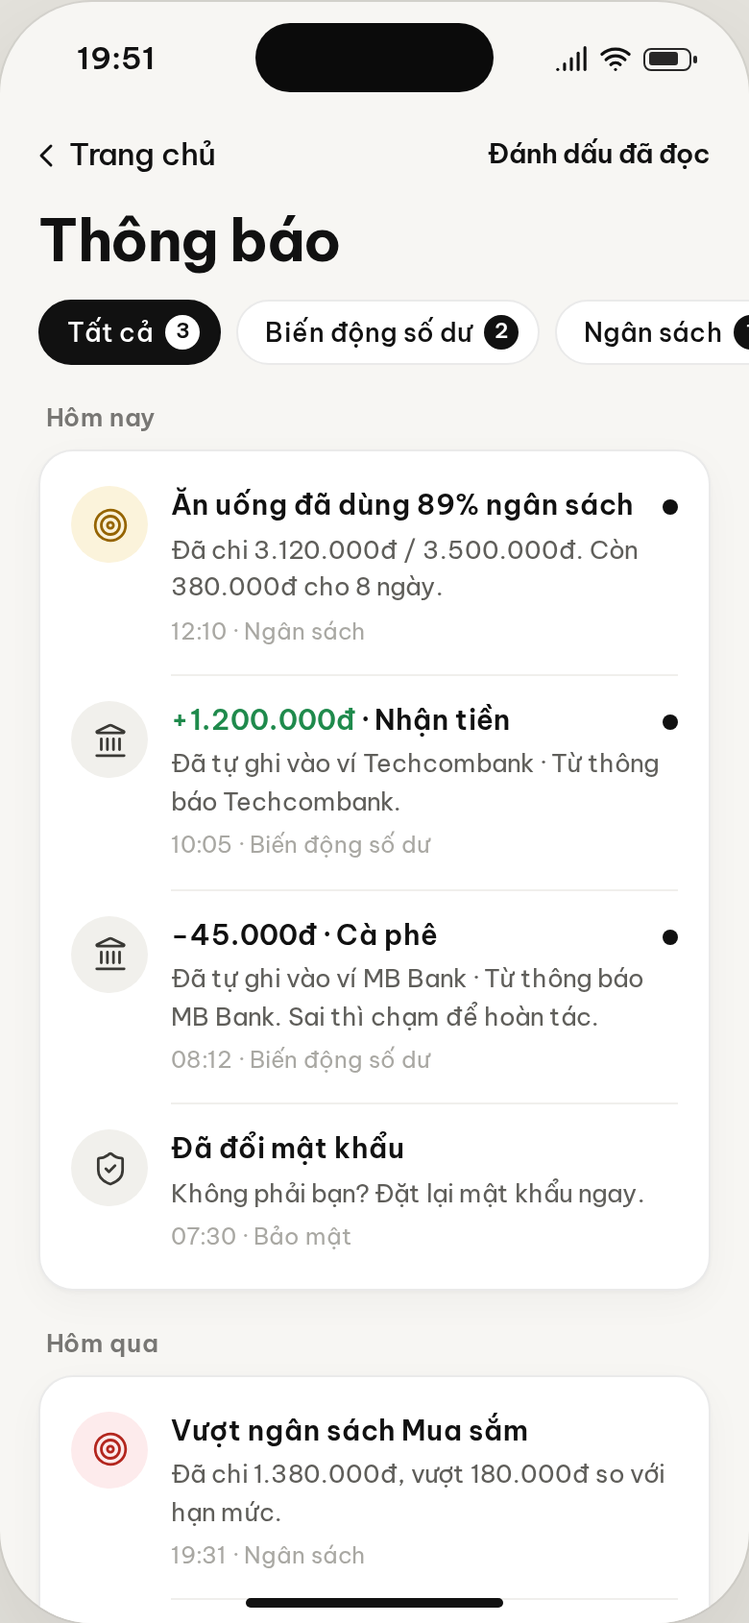
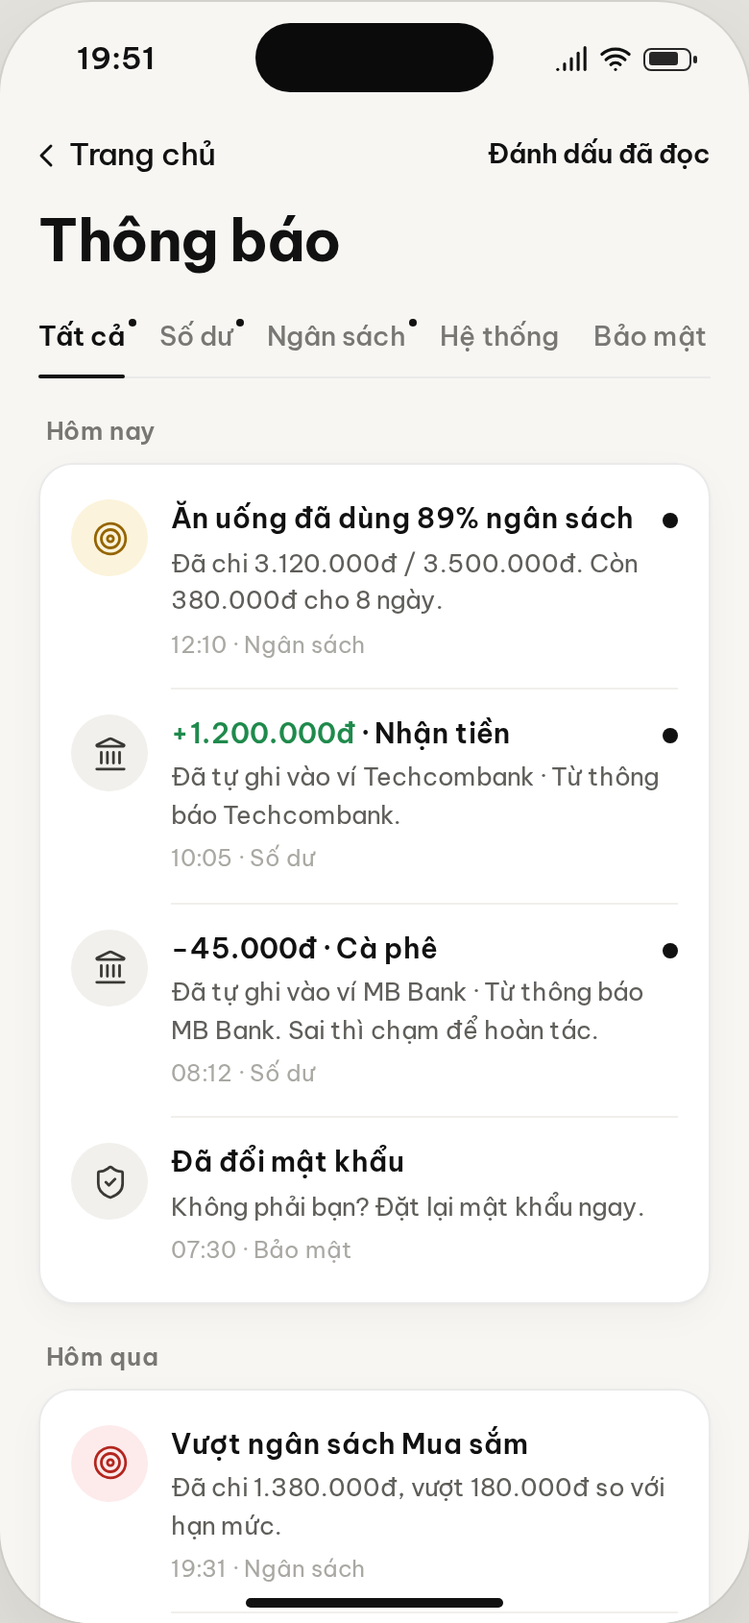
feat(notifications): menu 4 nhóm + Tất cả vừa một hàng — gộp Nhắc nhở vào Hệ thống; mockup tab gọn

diff --git a/design/mockup/index.html b/design/mockup/index.html
@@ -2071,7 +2071,7 @@
   <!-- ===================== M. THÔNG BÁO THEO NHÓM & TỰ GHI (chờ duyệt) ===================== -->
   <section class="section" id="thong-bao-nhom">
     <div class="section-label"><b>M</b> Thông báo theo nhóm &amp; tự ghi · chờ duyệt</div>
-    <p class="body-m" style="color:#55544f;max-width:980px;margin:-8px 0 24px;line-height:1.6">Thông báo có <b>5 nhóm</b>: Biến động số dư (khoản app tự ghi từ thông báo ngân hàng), Ngân sách (80% / vượt hạn mức), Hệ thống (từ đội ngũ TrackerX), Bảo mật (mật khẩu, số điện thoại), Nhắc nhở (định kỳ tạm dừng…). Màn Thông báo thêm dải chip lọc có số chưa đọc theo nhóm. <b>Tự động ghi vào sổ</b> là công tắc mới trong Ghi từ thông báo ngân hàng (Android, bản cài đầy đủ), <b>mặc định tắt</b>, bật phải qua sheet đồng ý riêng. Chỉ ghi ngay khi app biết cả ví và danh mục; khoản trùng từ app ngân hàng và SMS trong 3 phút chỉ ghi 1 lần; ghi khi app đang chạy hoặc lần mở tiếp theo. Mỗi khoản tự ghi có thông báo Biến động số dư kèm <b>Hoàn tác</b>.</p>
+    <p class="body-m" style="color:#55544f;max-width:980px;margin:-8px 0 24px;line-height:1.6">Thông báo có <b>4 nhóm</b>: Số dư (khoản app tự ghi từ thông báo ngân hàng), Ngân sách (80% / vượt hạn mức), Hệ thống (từ đội ngũ TrackerX, kể cả định kỳ tạm dừng), Bảo mật (mật khẩu, số điện thoại). Màn Thông báo thêm menu 5 tab gọn, vừa khít chiều ngang, chấm nhỏ báo chưa đọc. <b>Tự động ghi vào sổ</b> là công tắc mới trong Ghi từ thông báo ngân hàng (Android, bản cài đầy đủ), <b>mặc định tắt</b>, bật phải qua sheet đồng ý riêng. Chỉ ghi ngay khi app biết cả ví và danh mục; khoản trùng từ app ngân hàng và SMS trong 3 phút chỉ ghi 1 lần; ghi khi app đang chạy hoặc lần mở tiếp theo. Mỗi khoản tự ghi có thông báo Biến động số dư kèm <b>Hoàn tác</b>.</p>
     <div class="row-phones">
 
       <!-- 60-01 Thông báo theo nhóm -->
@@ -2080,30 +2080,23 @@
           <div class="appbar"><span class="back left"><i data-lucide="chevron-left"></i>Trang chủ</span><span></span><span class="right"><span class="link tb-mark">Đánh dấu đã đọc</span></span></div>
           <div class="pad">
             <h1 class="headline">Thông báo</h1>
-            <div class="chips tb-chips mt-3">
-              <span class="chip on">Tất cả<span class="cnt num">3</span></span>
-              <span class="chip">Biến động số dư<span class="cnt num">2</span></span>
-              <span class="chip">Ngân sách<span class="cnt num">1</span></span>
-              <span class="chip">Hệ thống</span>
-              <span class="chip">Bảo mật</span>
-              <span class="chip">Nhắc nhở</span>
-            </div>
+            <div class="tb-tabs mt-3"><span class="tb-tab on">Tất cả<i class="tb-dot"></i></span><span class="tb-tab">Số dư<i class="tb-dot"></i></span><span class="tb-tab">Ngân sách<i class="tb-dot"></i></span><span class="tb-tab">Hệ thống</span><span class="tb-tab">Bảo mật</span></div>
             <div class="group-h"><span>Hôm nay</span></div>
             <div class="card flush list">
               <div class="nrow"><span class="bubble warn"><i data-lucide="target"></i></span><div class="grow"><div class="between"><span class="t">Ăn uống đã dùng 89% ngân sách</span><span class="unread"></span></div><div class="s">Đã chi 3.120.000đ / 3.500.000đ. Còn 380.000đ cho 8 ngày.</div><div class="time">12:10 · Ngân sách</div></div></div>
-              <div class="nrow"><span class="bubble"><i data-lucide="landmark"></i></span><div class="grow"><div class="between"><span class="t"><span class="num income">+1.200.000đ</span> · Nhận tiền</span><span class="unread"></span></div><div class="s">Đã tự ghi vào ví Techcombank · Từ thông báo Techcombank.</div><div class="time">10:05 · Biến động số dư</div></div></div>
-              <div class="nrow"><span class="bubble"><i data-lucide="landmark"></i></span><div class="grow"><div class="between"><span class="t"><span class="num">−45.000đ</span> · Cà phê</span><span class="unread"></span></div><div class="s">Đã tự ghi vào ví MB Bank · Từ thông báo MB Bank. Sai thì chạm để hoàn tác.</div><div class="time">08:12 · Biến động số dư</div></div></div>
+              <div class="nrow"><span class="bubble"><i data-lucide="landmark"></i></span><div class="grow"><div class="between"><span class="t"><span class="num income">+1.200.000đ</span> · Nhận tiền</span><span class="unread"></span></div><div class="s">Đã tự ghi vào ví Techcombank · Từ thông báo Techcombank.</div><div class="time">10:05 · Số dư</div></div></div>
+              <div class="nrow"><span class="bubble"><i data-lucide="landmark"></i></span><div class="grow"><div class="between"><span class="t"><span class="num">−45.000đ</span> · Cà phê</span><span class="unread"></span></div><div class="s">Đã tự ghi vào ví MB Bank · Từ thông báo MB Bank. Sai thì chạm để hoàn tác.</div><div class="time">08:12 · Số dư</div></div></div>
               <div class="nrow"><span class="bubble"><i data-lucide="shield-check"></i></span><div class="grow"><div class="t">Đã đổi mật khẩu</div><div class="s">Không phải bạn? Đặt lại mật khẩu ngay.</div><div class="time">07:30 · Bảo mật</div></div></div>
             </div>
             <div class="group-h"><span>Hôm qua</span></div>
             <div class="card flush list">
               <div class="nrow"><span class="bubble danger"><i data-lucide="target"></i></span><div class="grow"><div class="t">Vượt ngân sách Mua sắm</div><div class="s">Đã chi 1.380.000đ, vượt 180.000đ so với hạn mức.</div><div class="time">19:31 · Ngân sách</div></div></div>
               <div class="nrow"><span class="bubble brand"><svg viewBox="0 0 120 120" aria-label="TrackerX"><rect width="120" height="120" rx="26.4" fill="#111111"/><rect x="23" y="23" width="22" height="22" rx="5" fill="#FFFFFF"/><rect x="49" y="23" width="22" height="22" rx="5" fill="#FFFFFF"/><rect x="75" y="23" width="22" height="22" rx="5" fill="#FFFFFF"/><rect x="49" y="49" width="22" height="22" rx="5" fill="#FFFFFF"/><rect x="49" y="75" width="22" height="22" rx="5" fill="#FFFFFF"/><rect x="23" y="75" width="22" height="22" rx="5" fill="#5E5D59"/><rect x="75" y="75" width="22" height="22" rx="5" fill="#5E5D59"/></svg></span><div class="grow"><div class="t">Mới: quét hóa đơn bằng ảnh</div><div class="s">Nhấn giữ ＋, chọn Quét hóa đơn để ghi nhanh từ ảnh.</div><div class="time">09:00 · Từ đội ngũ TrackerX</div></div></div>
-              <div class="nrow"><span class="bubble"><i data-lucide="alarm-clock"></i></span><div class="grow"><div class="t">Đã tạm dừng: Spotify Premium</div><div class="s">Ví MoMo không đủ số dư. Chạm để tiếp tục.</div><div class="time">07:00 · Nhắc nhở</div></div></div>
+              <div class="nrow"><span class="bubble"><i data-lucide="circle-pause"></i></span><div class="grow"><div class="t">Đã tạm dừng: Spotify Premium</div><div class="s">Ví MoMo không đủ số dư. Chạm để tiếp tục.</div><div class="time">07:00 · Hệ thống</div></div></div>
             </div>
           </div>
         </div>
-      </div><div class="frame-cap"><span>60a</span>Thông báo: chip lọc theo nhóm + số chưa đọc, nhóm theo ngày</div></div>
+      </div><div class="frame-cap"><span>60a</span>Thông báo: menu 5 tab + chấm chưa đọc, nhóm theo ngày</div></div>
 
       <!-- 60-02 Lọc Biến động số dư -->
       <div class="frame"><div class="phone" data-shot="60-tb-02-loc-bien-dong">
@@ -2111,13 +2104,7 @@
           <div class="appbar"><span class="back left"><i data-lucide="chevron-left"></i>Trang chủ</span><span></span><span class="right"><span class="link tb-mark">Đánh dấu đã đọc</span></span></div>
           <div class="pad">
             <h1 class="headline">Thông báo</h1>
-            <div class="chips tb-chips mt-3">
-              <span class="chip">Tất cả<span class="cnt num">3</span></span>
-              <span class="chip on">Biến động số dư<span class="cnt num">2</span></span>
-              <span class="chip">Ngân sách<span class="cnt num">1</span></span>
-              <span class="chip">Hệ thống</span>
-              <span class="chip">Bảo mật</span>
-            </div>
+            <div class="tb-tabs mt-3"><span class="tb-tab">Tất cả<i class="tb-dot"></i></span><span class="tb-tab on">Số dư<i class="tb-dot"></i></span><span class="tb-tab">Ngân sách<i class="tb-dot"></i></span><span class="tb-tab">Hệ thống</span><span class="tb-tab">Bảo mật</span></div>
             <div class="tb-hint"><span>Khoản app tự ghi từ thông báo ngân hàng</span><span class="go">Cài đặt<i data-lucide="chevron-right"></i></span></div>
             <div class="group-h" style="margin-top:12px"><span>Hôm nay</span></div>
             <div class="card flush list">
@@ -2133,7 +2120,7 @@
             </div>
           </div>
         </div>
-      </div><div class="frame-cap"><span>60b</span>Lọc Biến động số dư: Hoàn tác + Xem giao dịch ngay trong thông báo</div></div>
+      </div><div class="frame-cap"><span>60b</span>Tab Số dư: Hoàn tác + Xem giao dịch ngay trong thông báo</div></div>
 
       <!-- 60-03 Hoàn tác: sheet xác nhận -->
       <div class="frame"><div class="phone" data-shot="60-tb-03-hoan-tac">
@@ -2141,12 +2128,7 @@
           <div class="appbar"><span class="back left"><i data-lucide="chevron-left"></i>Trang chủ</span><span></span><span class="right"><span class="link tb-mark">Đánh dấu đã đọc</span></span></div>
           <div class="pad">
             <h1 class="headline">Thông báo</h1>
-            <div class="chips tb-chips mt-3">
-              <span class="chip">Tất cả<span class="cnt num">3</span></span>
-              <span class="chip on">Biến động số dư<span class="cnt num">2</span></span>
-              <span class="chip">Ngân sách<span class="cnt num">1</span></span>
-              <span class="chip">Hệ thống</span>
-            </div>
+            <div class="tb-tabs mt-3"><span class="tb-tab">Tất cả<i class="tb-dot"></i></span><span class="tb-tab on">Số dư<i class="tb-dot"></i></span><span class="tb-tab">Ngân sách<i class="tb-dot"></i></span><span class="tb-tab">Hệ thống</span><span class="tb-tab">Bảo mật</span></div>
             <div class="group-h" style="margin-top:20px"><span>Hôm nay</span></div>
             <div class="card flush list">
               <div class="nrow"><span class="bubble"><i data-lucide="landmark"></i></span><div class="grow"><div class="between"><span class="t"><span class="num">−45.000đ</span> · Cà phê</span><span class="unread"></span></div><div class="s">Đã tự ghi vào ví MB Bank · Từ thông báo MB Bank. Sai thì chạm để hoàn tác.</div><div class="time">08:12 · Ăn uống</div></div></div>
@@ -2180,13 +2162,7 @@
           <div class="appbar"><span class="back left"><i data-lucide="chevron-left"></i>Trang chủ</span><span></span><span class="right"><span class="link tb-mark">Đánh dấu đã đọc</span></span></div>
           <div class="pad">
             <h1 class="headline">Thông báo</h1>
-            <div class="chips tb-chips mt-3">
-              <span class="chip">Tất cả<span class="cnt num">1</span></span>
-              <span class="chip on">Biến động số dư</span>
-              <span class="chip">Ngân sách<span class="cnt num">1</span></span>
-              <span class="chip">Hệ thống</span>
-              <span class="chip">Bảo mật</span>
-            </div>
+            <div class="tb-tabs mt-3"><span class="tb-tab">Tất cả<i class="tb-dot"></i></span><span class="tb-tab on">Số dư</span><span class="tb-tab">Ngân sách<i class="tb-dot"></i></span><span class="tb-tab">Hệ thống</span><span class="tb-tab">Bảo mật</span></div>
             <div class="tb-hint"><span>Khoản app tự ghi từ thông báo ngân hàng</span><span class="go">Cài đặt<i data-lucide="chevron-right"></i></span></div>
             <div class="group-h" style="margin-top:12px"><span>Hôm nay</span></div>
             <div class="card flush list">

diff --git a/design/mockup/styles.css b/design/mockup/styles.css
@@ -556,10 +556,6 @@ svg.lucide { width: 20px; height: 20px; stroke-width: 1.75; flex: none; }
 .why svg.lucide { width: 18px; height: 18px; flex: none; margin-top: 1px; color: var(--color-on-surface-variant); }
 
 /* ===================== M. Thông báo theo nhóm & tự ghi · chờ duyệt ===================== */
-/* Dải chip lọc nhóm: tràn mép phải (cuộn ngang), số chưa đọc trong chip */
-.tb-chips { margin-right: calc(-1 * var(--screen-padding)); }
-.chip .cnt { min-width: 18px; height: 18px; padding: 0 5px; margin-right: -4px; border-radius: var(--radius-pill); background: var(--color-primary); color: #fff; font-size: 11px; font-weight: 600; display: inline-flex; align-items: center; justify-content: center; }
-.chip.on .cnt { background: #fff; color: var(--color-primary); }
 .link.tb-mark { font-size: 14px; padding: 0 8px; }
 /* Bubble Hệ thống = logo TrackerX (vuông bo, phân biệt với bubble tròn) */
 .bubble.brand { background: none; border-radius: 11px; overflow: hidden; }
@@ -596,3 +592,9 @@ svg.lucide { width: 20px; height: 20px; stroke-width: 1.75; flex: none; }
 #thong-bao-nhom .nrow .between { align-items: flex-start; }
 #thong-bao-nhom .nrow .between .unread { margin-top: 7px; }
 #thong-bao-nhom .nrow .between .badge { margin-top: 1px; }
+/* M · menu tab nhóm thông báo (thay dải chip): vừa khít chiều ngang, không cuộn */
+.tb-tabs { display: flex; justify-content: space-between; border-bottom: 1px solid var(--color-outline); padding: 0 2px 0 0; }
+.tb-tab { position: relative; display: inline-flex; align-items: center; height: 40px; font-size: 14px; font-weight: 500; color: var(--color-on-surface-variant); white-space: nowrap; }
+.tb-tab.on { color: var(--color-on-surface); font-weight: 600; }
+.tb-tab.on::after { content: ""; position: absolute; left: 0; right: 0; bottom: -1px; height: 2px; border-radius: 1px; background: var(--color-on-surface); }
+.tb-dot { position: absolute; top: 10px; right: -6px; width: 4px; height: 4px; border-radius: 50%; background: var(--color-on-surface); }

diff --git a/backend/src/notifications/categories.ts b/backend/src/notifications/categories.ts
@@ -1,7 +1,8 @@
 import { NotificationType } from '@prisma/client';
 
 /** Nhóm hiển thị trong app (suy ra từ `type`, không lưu DB → app cũ đọc `type` vẫn chạy). */
-export const NOTIFICATION_CATEGORIES = ['system', 'balance', 'budget', 'reminder', 'security'] as const;
+// 4 nhóm = 4 tab (cùng "Tất cả") vừa một hàng trên điện thoại; nhắc nhở (định kỳ tạm dừng) thuộc Hệ thống
+export const NOTIFICATION_CATEGORIES = ['balance', 'budget', 'system', 'security'] as const;
 export type NotificationCategory = (typeof NOTIFICATION_CATEGORIES)[number];
 
 export const CATEGORY_OF: Record<NotificationType, NotificationCategory> = {
@@ -9,7 +10,7 @@ export const CATEGORY_OF: Record<NotificationType, NotificationCategory> = {
   BALANCE_CHANGE: 'balance',
   BUDGET_WARNING: 'budget',
   BUDGET_EXCEEDED: 'budget',
-  RECURRING_PAUSED: 'reminder',
+  RECURRING_PAUSED: 'system',
   SECURITY: 'security',
 };
 

diff --git a/backend/src/notifications/notifications.module.ts b/backend/src/notifications/notifications.module.ts
@@ -12,7 +12,7 @@ class NotificationQuery extends PageQuery {
   /** true => chỉ thông báo chưa đọc */
   @IsOptional() @Transform(({ value }) => (value === 'true' ? true : value === 'false' ? false : value)) @IsBoolean()
   unread?: boolean;
-  /** Lọc theo nhóm: system | balance | budget | reminder | security */
+  /** Lọc theo nhóm: balance | budget | system | security */
   @IsOptional() @IsIn(NOTIFICATION_CATEGORIES) category?: NotificationCategory;
 }
 

diff --git a/design/mockup/README.md b/design/mockup/README.md
@@ -94,12 +94,12 @@ Admin tương ứng: `../admin-mockup/` mục K, ảnh `../admin-mockup/shots/50
 - Thêm CSS ở cuối `styles.css`: `.otp.show`, `.input.error`, `.err-t`, `.ok-banner`, `.kv`, `.indet`, `.opt`, `.adlg` (hộp quyền Android), `.why`. Ảnh chụp bằng `../shoot.mjs` (`cd admin && node ../design/shoot.mjs mockup 50-sdt`).
 
 ## M · Thông báo theo nhóm & tự ghi (chờ duyệt)
-Backend đã có nhóm thông báo (`system · balance · budget · reminder · security`) và số chưa đọc theo nhóm. Màn gốc: 19 Thông báo (mục H) và màn thật `bank_settings_screen.dart` / `bank_pending_screen.dart` (chưa có mockup riêng, nên M dựng lại đúng component của app: card công tắc, bubble, thẻ nét đứt, chip Chọn ví vàng).
+Backend đã có nhóm thông báo và số chưa đọc theo nhóm; app hiện 4 nhóm `balance · budget · system · security` (định kỳ tạm dừng backend gộp vào `system`). Màn gốc: 19 Thông báo (mục H) và màn thật `bank_settings_screen.dart` / `bank_pending_screen.dart` (chưa có mockup riêng, nên M dựng lại đúng component của app: card công tắc, bubble, thẻ nét đứt, chip Chọn ví vàng).
 
 | # | File | Màn |
 |---|---|---|
-| 60a | `shots/60-tb-01-thong-bao-nhom.png` | Thông báo: dải chip cuộn ngang “Tất cả · Biến động số dư · Ngân sách · Hệ thống · Bảo mật · Nhắc nhở”, số chưa đọc trong chip, nhóm Hôm nay / Hôm qua, mỗi dòng có bubble theo nhóm (Biến động `landmark`, Ngân sách `target` vàng/đỏ theo 80%/100%, Bảo mật `shield-check`, Nhắc nhở `alarm-clock`, Hệ thống = logo TrackerX vuông bo), dòng giờ kèm tên nhóm, chấm chưa đọc, “Đánh dấu đã đọc” ở thanh trên (áp dụng cho nhóm đang chọn) |
-| 60b | `shots/60-tb-02-loc-bien-dong.png` | Lọc Biến động số dư: dòng gợi ý + link Cài đặt; mỗi khoản có số tiền có dấu (thu xanh), ví, nguồn (thông báo / SMS), danh mục; khoản vừa chạm mở rộng Hoàn tác · Xem giao dịch; khoản đã hoàn tác mờ + badge “Đã hoàn tác” |
+| 60a | `shots/60-tb-01-thong-bao-nhom.png` | Thông báo: menu tab gọn “Tất cả · Số dư · Ngân sách · Hệ thống · Bảo mật” vừa khít chiều ngang, không cuộn (chữ 14/500, tab đang chọn chữ mực + gạch dưới 2px, tab khác xám, đường kẻ mảnh dưới menu, chấm nhỏ cạnh tên tab = có tin chưa đọc, không hiện số). Nhóm Hôm nay / Hôm qua, mỗi dòng có bubble theo nhóm (Số dư `landmark`, Ngân sách `target` vàng/đỏ theo 80%/100%, Bảo mật `shield-check`, Hệ thống = logo TrackerX vuông bo; định kỳ tạm dừng giữ `circle-pause` nhưng nhãn “· Hệ thống”), dòng giờ kèm tên nhóm, chấm chưa đọc, “Đánh dấu đã đọc” ở thanh trên (áp dụng cho tab đang chọn) |
+| 60b | `shots/60-tb-02-loc-bien-dong.png` | Tab Số dư: dòng gợi ý + link Cài đặt; mỗi khoản có số tiền có dấu (thu xanh), ví, nguồn (thông báo / SMS), danh mục; khoản vừa chạm mở rộng Hoàn tác · Xem giao dịch; khoản đã hoàn tác mờ + badge “Đã hoàn tác” |
 | 60c | `shots/60-tb-03-hoan-tac.png` | Sheet “Hoàn tác khoản tự ghi?”: số tiền, nội dung, ví, giờ; giao dịch bị xóa, ví cộng lại 45.000đ; Hoàn tác (đỏ nhạt) · Giữ lại |
 | 60c-b | `shots/60-tb-03b-da-hoan-tac.png` | Sau khi hoàn tác: dòng chuyển “Đã hoàn tác”, toast “Đã hoàn tác: Cà phê · 45.000đ đã trả lại ví MB Bank” + Xem ví |
 | 60d | `shots/60-tb-04-cai-dat-tu-ghi.png` | Ghi từ thông báo ngân hàng: công tắc Bật tính năng (giữ nguyên) + công tắc mới **Tự động ghi vào sổ** (“Đang bật trên máy này”), 3 quy tắc gọn, dòng đề xuất “Khoản lớn chờ xác nhận · Từ 5.000.000đ”, link Xem các khoản đã tự ghi / Chờ xác nhận, Ngân hàng đã ghép ví (VPBank chip vàng Chọn ví) |
@@ -108,16 +108,16 @@ Backend đã có nhóm thông báo (`system · balance · budget · reminder · 
 
 ### Quyết định
 - Thông báo tự ghi dùng đúng mẫu backend: tiêu đề “−45.000đ · Cà phê”, thân “Đã tự ghi vào ví … · Từ thông báo …. Sai thì chạm để hoàn tác.”. Ví trong mockup đổi theo 4 ví mẫu (MB Bank, Techcombank, MoMo) để khớp dữ liệu các màn đã duyệt; VPBank là ngân hàng chưa ghép ví.
-- **Dải chip cuộn ngang là ngoại lệ thứ hai** của luật “không cuộn ngang” trong `../DESIGN.md` (cố ý tràn mép phải như dải Nhập nhanh). Chip đang chọn nền mực, số chưa đọc đổi thành nền trắng chữ mực. Nhóm không có thông báo chưa đọc thì không có số.
+- **Menu tab chữ, không phải chip**: 5 tab dàn đều hết chiều ngang 390, không cuộn (đúng luật “không cuộn ngang” của `../DESIGN.md`). Chưa đọc chỉ là chấm 4px cạnh tên tab, không badge số. Tab không có tin chưa đọc thì không có chấm.
 - Bubble theo nhóm vẫn gần đơn sắc: chỉ Ngân sách giữ màu vàng / đỏ như màn 19 (màu mang nghĩa 80% / vượt). Hệ thống dùng logo TrackerX để người dùng nhận ra tin chính thức. Số tiền trong tiêu đề: thu xanh, chi mực.
 - **Hoàn tác có bước xác nhận** vì nó xóa giao dịch thật; nút đỏ nhạt giống sheet Xóa tài khoản / Gỡ số. Xong thì không xóa thông báo mà chuyển sang “Đã hoàn tác” để còn dấu vết. Không có “làm lại”: muốn ghi lại thì nhập tay.
 - Màn danh sách đổi tên “Chờ xác nhận” → **“Từ thông báo ngân hàng”** vì giờ có hai phần. Lý do không tự ghi hiện bằng chip vàng ngay trên thẻ; nút Xác nhận khi chưa có ví vẫn mở chọn ví như app hiện tại.
-- Thêm CSS ở cuối `styles.css`: `.tb-chips`, `.chip .cnt`, `.bubble.brand`, `.tb-hint`, `.tb-acts`, `.tb-undone`, `.tb-rule`, `.tb-cap`, `.tb-points`, `.tb-undo`, `.tb-amt`, `.tb-why`, `.pchip`. Ảnh chụp bằng `../shoot.mjs` (`cd admin && node ../design/shoot.mjs mockup 60-tb`). Không chụp lại `overview.png`.
+- Thêm CSS ở cuối `styles.css`: `.tb-tabs`, `.tb-tab`, `.tb-dot`, `.bubble.brand`, `.tb-hint`, `.tb-acts`, `.tb-undone`, `.tb-rule`, `.tb-cap`, `.tb-points`, `.tb-undo`, `.tb-amt`, `.tb-why`, `.pchip`. Ảnh chụp bằng `../shoot.mjs` (`cd admin && node ../design/shoot.mjs mockup 60-tb`). Không chụp lại `overview.png`.
 
 ### Quyết định cần chốt (đề xuất)
-1. **5 nhóm, thứ tự chip**: Tất cả · Biến động số dư · Ngân sách · Hệ thống · Bảo mật · Nhắc nhở. Biến động số dư đứng đầu vì nhiều nhất và cần hành động (hoàn tác); Ngân sách thứ hai vì là cảnh báo tiền; Hệ thống / Bảo mật / Nhắc nhở ít, để sau. Bảo mật không bao giờ ẩn khỏi Tất cả.
+1. **5 tab**: Tất cả · Số dư · Ngân sách · Hệ thống · Bảo mật. **Nhắc nhở gộp vào Hệ thống** (backend map định kỳ tạm dừng vào `system`). Số dư đứng đầu vì nhiều nhất và cần hành động (hoàn tác); Ngân sách thứ hai vì là cảnh báo tiền; Hệ thống / Bảo mật ít, để sau. Bảo mật không bao giờ ẩn khỏi Tất cả.
 2. **Tự động ghi mặc định TẮT**, theo từng máy, bật phải qua sheet 60e. Lý do: thay đổi lời hứa cũ “chỉ khoản bạn Xác nhận mới được lưu”, nên cần đồng ý riêng; sheet đồng ý chung (bank_disclosure_sheet) cần thêm một câu “hoặc khoản app tự ghi khi bạn bật Tự động ghi”.
 3. **Ngưỡng số tiền: nên có, tùy chọn, mặc định bật ở 5.000.000đ** (khoản ≥ 5.000.000đ vẫn chờ xác nhận; chọn Tắt / 1.000.000đ / 5.000.000đ / 10.000.000đ). Một khoản lớn ghi sai làm lệch báo cáo và ngân sách cả tháng, trong khi khoản lớn ít nên bấm Xác nhận không phiền. Nếu muốn gọn cho bản đầu thì bỏ dòng này ở 60d và cố định 5.000.000đ trong code.
 4. **Chưa cho tắt tiếng từng nhóm** ở bản này. Chip lọc đã đủ để tìm; tắt nhóm dễ làm người dùng bỏ lỡ Biến động số dư (đường hoàn tác) và Bảo mật. Xem lại khi có thông báo đẩy (FCM).
 5. Khoản trùng app ngân hàng + SMS trong 3 phút: ghi 1 lần, không hiện gì thêm (không làm người dùng phải hiểu cơ chế). Nếu trùng nhưng số tiền khác nhau thì coi là 2 khoản.
-6. “Đánh dấu đã đọc” chỉ áp dụng cho nhóm đang chọn (ở Tất cả là toàn bộ); ẩn khi nhóm không còn tin chưa đọc.
+6. “Đánh dấu đã đọc” chỉ áp dụng cho tab đang chọn (ở Tất cả là toàn bộ); ẩn khi nhóm không còn tin chưa đọc.
